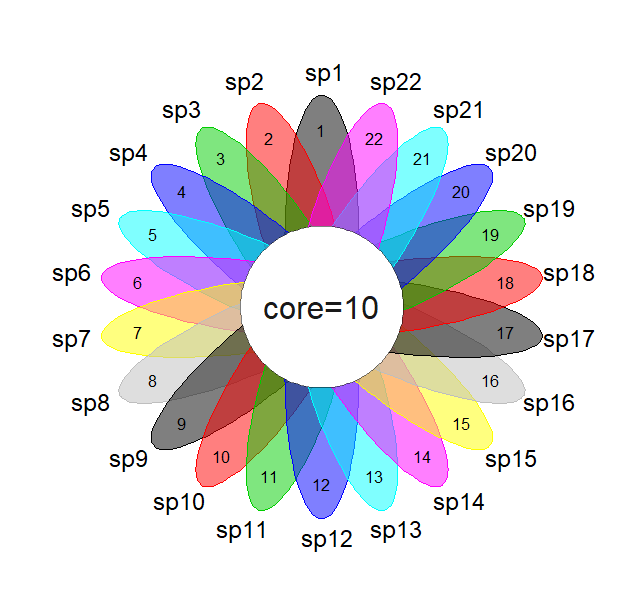
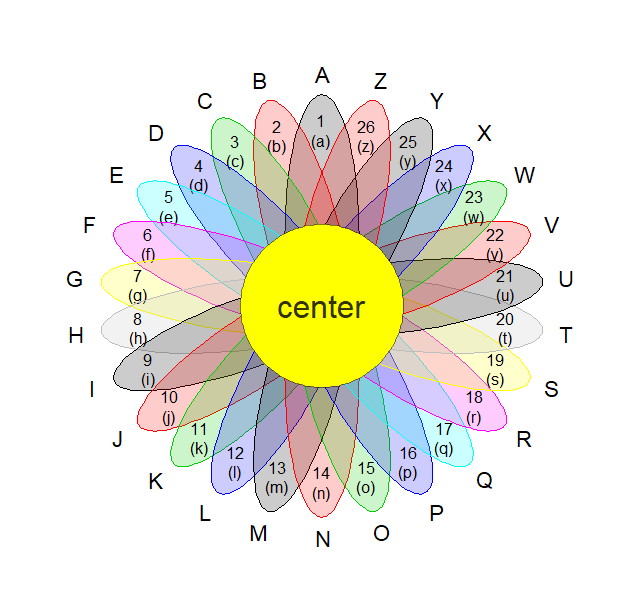
amend readme

diff --git a/README.md b/README.md
@@ -3,13 +3,26 @@
 
 fork from https://github.com/DongliangXu/flower
 
+增加了一些参数 **circle_**，中间圆心的样式
 
-示例图片
-![plot]('data/Rplot.png')
+## 示例图片
+
+![](data/Rplot.png)
 
 
-examples
 ```
-flower_plot(1:12, 1:12)
+flower_plot(sample = 1:12, value = 1:12,subvalue = 1:12)
 ```
+![](data/Rplot03.png)
+
+```
+flower_plot(sample = LETTERS, value=1:26,subvalue = letters,
+            ellipse_col = 1:12,
+            text_cex = 1.4,alpha = .2,
+            circle_col = 'yellow',
+            circle_text = 'center',
+            circle_text_cex = 2)
+```
+
+![](data/Rplot01.png)
 
